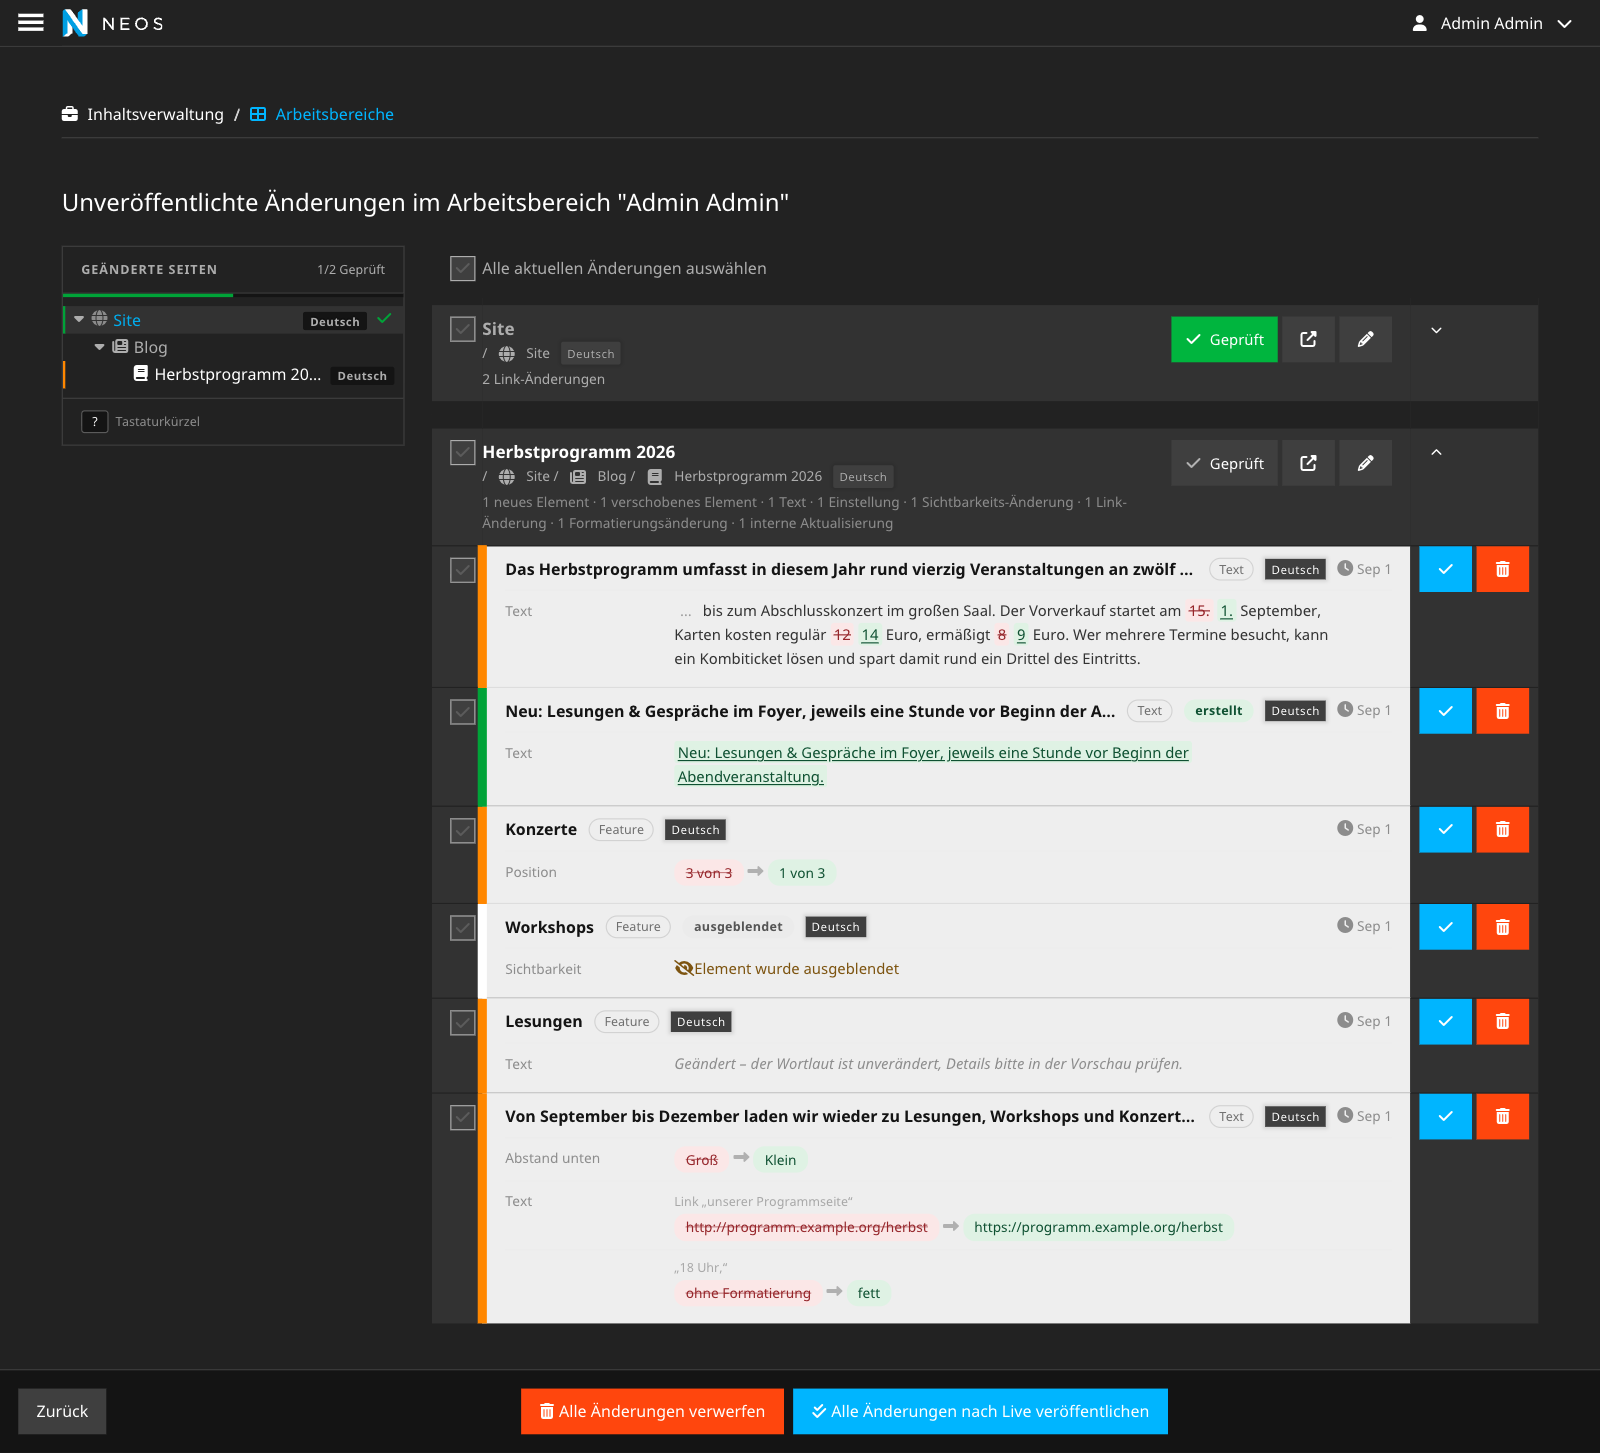
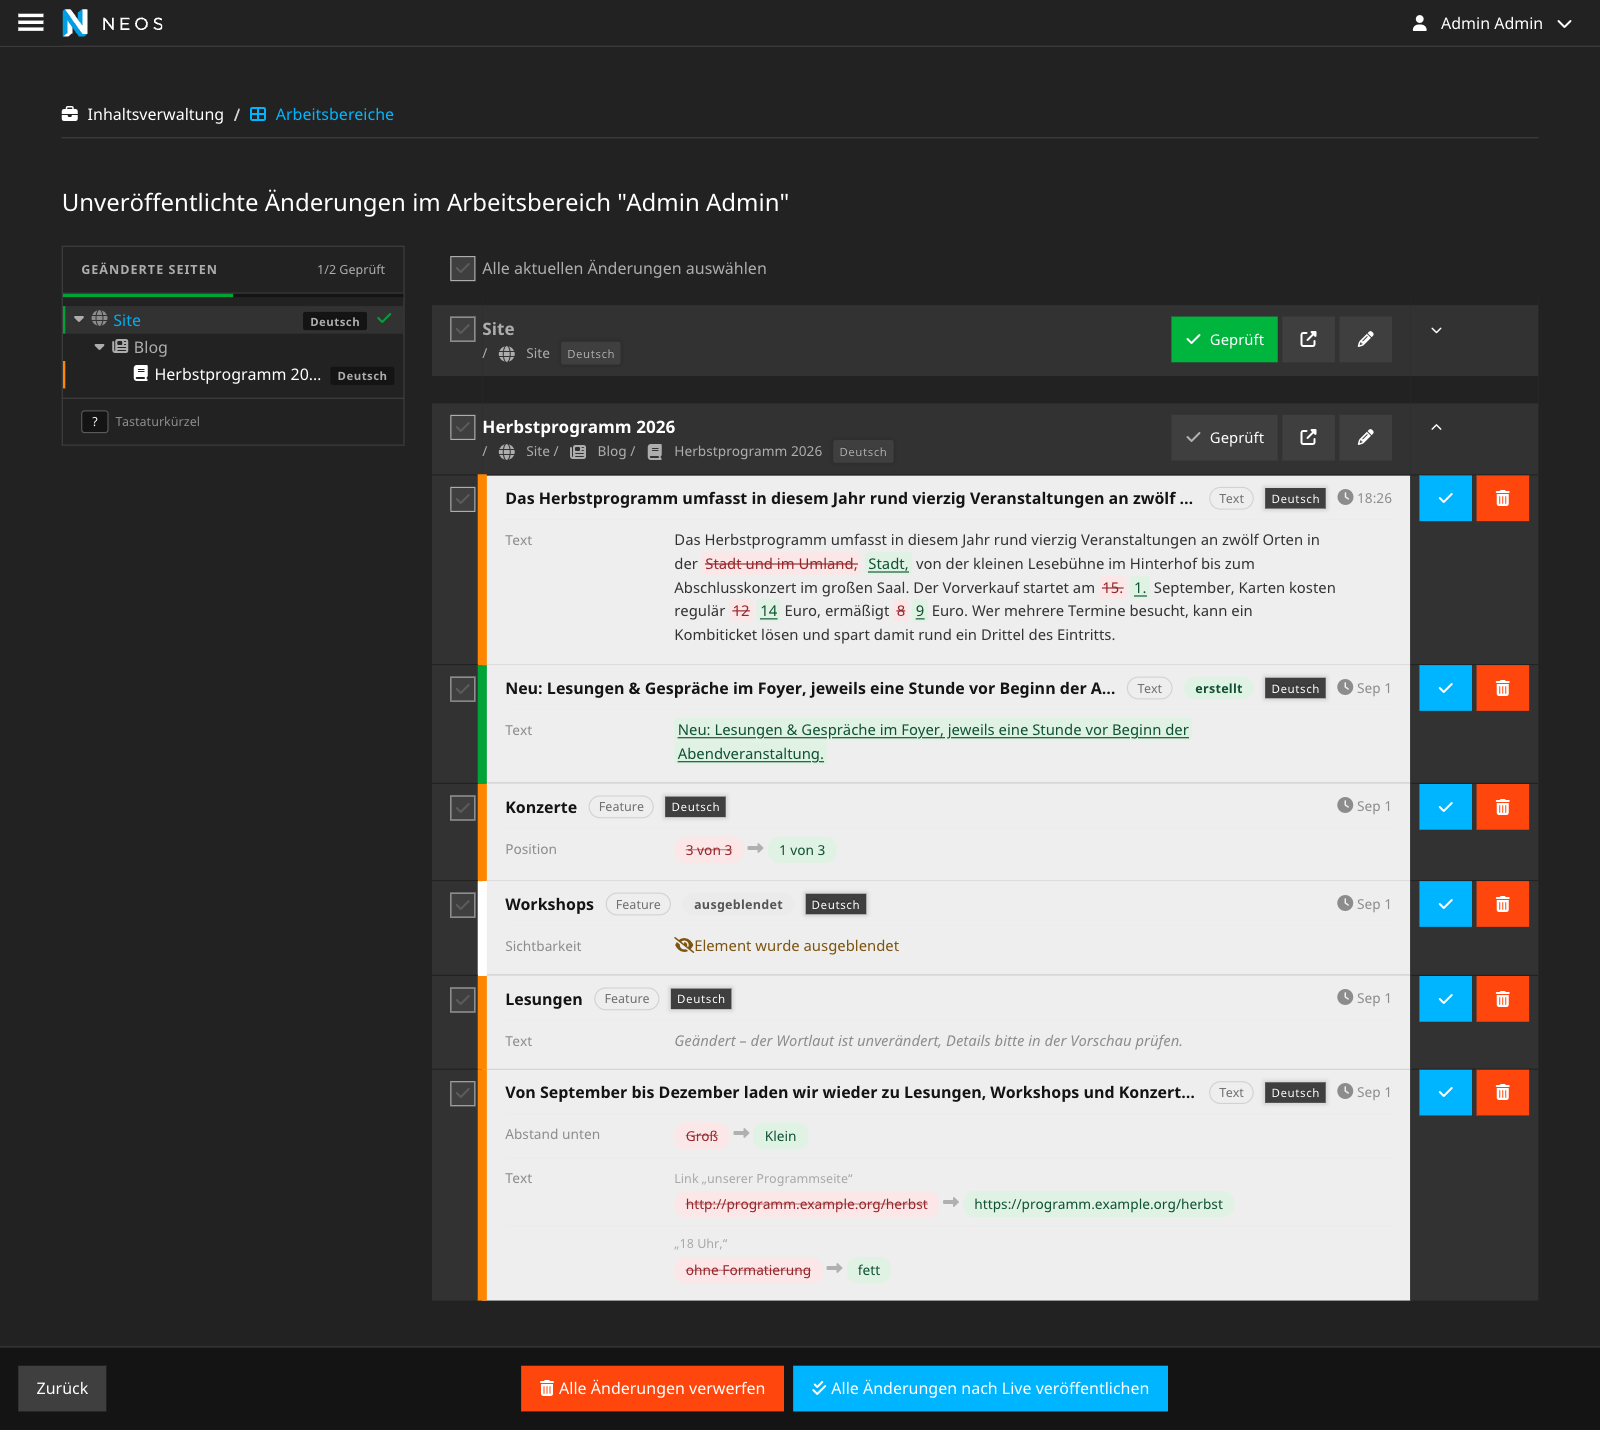
TASK: Remove the per-page change summaries
The counts like "1 new element · 1 moved element · 1 text · 1 setting"
below a page title repeated what the change cards show and did not help
deciding what to look at, so the summary rendering, its translations and
the test are removed.

diff --git a/Resources/Public/Styles/WorkspaceReview.css b/Resources/Public/Styles/WorkspaceReview.css
@@ -678,13 +678,6 @@
     font-size: 11px;
 }
 
-.codeq-review-summary {
-    margin-top: 4px;
-    font-size: 12px;
-    line-height: 18px;
-    color: #8c8c8c;
-}
-
 .codeq-review-page__actions {
     display: flex;
     flex: 0 0 auto;
@@ -718,8 +711,7 @@
     background: #00b53e;
 }
 
-.neos.neos-module .codeq-review-page--reviewed .codeq-review-page__title,
-.neos.neos-module .codeq-review-page--reviewed .codeq-review-summary {
+.neos.neos-module .codeq-review-page--reviewed .codeq-review-page__title {
     color: #adadad;
 }
 

diff --git a/Resources/Private/Templates/Module/Management/Workspaces/Show.html b/Resources/Private/Templates/Module/Management/Workspaces/Show.html
@@ -87,9 +87,6 @@
 														<span class="codeq-review-page__dimensions"><f:render partial="Module/Shared/NodeContentDimensionsInformation" arguments="{contentDimensions: contentDimensions, node: document.documentNode}" /></span>
 													</f:if>
 												</div>
-												<f:if condition="{document.summary}">
-													<div class="codeq-review-summary">{document.summary}</div>
-												</f:if>
 											</div>
 
 											<div class="codeq-review-page__actions">

diff --git a/Classes/Controller/Module/Management/WorkspacesController.php b/Classes/Controller/Module/Management/WorkspacesController.php
@@ -161,9 +161,9 @@ class WorkspacesController extends NeosWorkspacesController
     }
 
     /**
-     * Adds a human-readable per-document change summary on top of the site
-     * changes computed by the core controller, and a "pages" list per
-     * dimension that orders the changed documents like the page tree.
+     * Adds a "pages" list per dimension on top of the site changes computed
+     * by the core controller, ordering the changed documents like the page
+     * tree.
      *
      * @param Workspace $selectedWorkspace
      * @return array
@@ -173,10 +173,6 @@ class WorkspacesController extends NeosWorkspacesController
         $siteChanges = parent::computeSiteChanges($selectedWorkspace);
         foreach ($siteChanges as $siteKey => $site) {
             foreach ($site['documents'] as $dimension => $documents) {
-                foreach ($documents as $documentPath => $document) {
-                    $documents[$documentPath]['summary'] = $this->renderDocumentSummary($document);
-                }
-                $siteChanges[$siteKey]['documents'][$dimension] = $documents;
                 $siteChanges[$siteKey]['pages'][$dimension] = $this->computePageTree($documents);
             }
         }
@@ -222,97 +218,6 @@ class WorkspacesController extends NeosWorkspacesController
             $entries[$index]['hasChildren'] = isset($entries[$index + 1]) && $entries[$index + 1]['depth'] > $entry['depth'];
         }
         return $entries;
-    }
-
-    /**
-     * Builds a summary like "2 texts · 1 setting · 1 new element" for one
-     * changed document, counting change categories across all its nodes.
-     */
-    protected function renderDocumentSummary(array $document): string
-    {
-        $counts = [
-            'created' => 0,
-            'deleted' => 0,
-            'moved' => 0,
-            'texts' => 0,
-            'media' => 0,
-            'settings' => 0,
-            'visibility' => 0,
-            'links' => 0,
-            'formatting' => 0,
-            'internal' => 0,
-        ];
-        foreach ($document['changes'] ?? [] as $change) {
-            /** @var NodeInterface $node */
-            $node = $change['node'];
-            if ($node->isRemoved()) {
-                $counts['deleted']++;
-                continue;
-            }
-            if ($change['isNew'] ?? false) {
-                // A new node's property diff is all insertions; counting each
-                // property would inflate the summary, so count the node once.
-                $counts['created']++;
-                continue;
-            }
-            if ($change['isMoved'] ?? false) {
-                $counts['moved']++;
-            }
-            foreach ($change['contentChanges'] ?? [] as $contentChangeKey => $contentChange) {
-                // A reordering within the same parent keeps the node path, so
-                // the core "isMoved" flag stays false; the position entry is
-                // recognizable by its key and counts as a move, not a setting.
-                if ($contentChangeKey === '_index' && $contentChange['type'] === 'value') {
-                    $counts['moved']++;
-                    continue;
-                }
-                switch ($contentChange['type']) {
-                    case 'text':
-                        $counts['texts']++;
-                        break;
-                    case 'image':
-                    case 'asset':
-                        $counts['media']++;
-                        break;
-                    case 'value':
-                    case 'datetime':
-                        $counts['settings']++;
-                        break;
-                    case 'visibility':
-                        $counts['visibility']++;
-                        break;
-                    case 'link':
-                        $counts['links']++;
-                        break;
-                    case 'formatting':
-                        $counts['formatting']++;
-                        break;
-                    case 'note':
-                        $counts['internal']++;
-                        break;
-                }
-            }
-        }
-
-        $labelIds = [
-            'created' => 'summary.newElements',
-            'deleted' => 'summary.deletedElements',
-            'moved' => 'summary.movedElements',
-            'texts' => 'summary.texts',
-            'media' => 'summary.media',
-            'settings' => 'summary.settings',
-            'visibility' => 'summary.visibility',
-            'links' => 'summary.links',
-            'formatting' => 'summary.formatting',
-            'internal' => 'summary.internal',
-        ];
-        $parts = [];
-        foreach ($labelIds as $countKey => $labelId) {
-            if ($counts[$countKey] > 0) {
-                $parts[] = $this->translateOwn($labelId, [$counts[$countKey]], $counts[$countKey]);
-            }
-        }
-        return implode(' · ', $parts);
     }
 
     /**

diff --git a/Tests/Unit/Controller/Module/Management/WorkspacesControllerTest.php b/Tests/Unit/Controller/Module/Management/WorkspacesControllerTest.php
@@ -638,35 +638,6 @@ class WorkspacesControllerTest extends UnitTestCase
         );
     }
 
-    /** @test */
-    public function renderDocumentSummaryCountsEveryKindOfContentChange(): void
-    {
-        $node = $this->createMock(NodeInterface::class);
-        $node->method('isRemoved')->willReturn(false);
-        $document = [
-            'changes' => [
-                [
-                    'node' => $node,
-                    'contentChanges' => [
-                        ['type' => 'text'],
-                        ['type' => 'value'],
-                        ['type' => 'link'],
-                        ['type' => 'formatting'],
-                        ['type' => 'note'],
-                        '_index' => ['type' => 'value'],
-                    ],
-                ],
-            ],
-        ];
-
-        $summary = $this->createController(null)->renderDocumentSummaryForTest($document);
-
-        self::assertSame(
-            'summary.movedElements(1) · summary.texts(1) · summary.settings(1) · summary.links(1) · summary.formatting(1) · summary.internal(1)',
-            $summary
-        );
-    }
-
     /**
      * The sidebar shows the changed pages as a tree: the unchanged "blog" page
      * between the site and its changed post is listed as an ancestor, and a
@@ -912,11 +883,6 @@ class WorkspacesControllerTest extends UnitTestCase
             public function renderContentChangesForTest(NodeInterface $changedNode): array
             {
                 return $this->renderContentChanges($changedNode);
-            }
-
-            public function renderDocumentSummaryForTest(array $document): string
-            {
-                return $this->renderDocumentSummary($document);
             }
 
             public function computePageTreeForTest(array $documents): array

diff --git a/README.md b/README.md
@@ -4,7 +4,7 @@ Understand exactly what will change before publishing a Neos workspace.
 
 CodeQ.WorkspaceReview replaces ambiguous rows and duplicated text blocks with focused, human-readable change explanations.
 
-![Neos Core workspace review compared with the improved review, with annotations highlighting readable configuration, summaries, word-level diffs, statuses, explanations, links and formatting](Documentation/workspace-review-comparison.png)
+![Neos Core workspace review compared with the improved review, with annotations highlighting readable configuration, word-level diffs, statuses, explanations, links and formatting](Documentation/workspace-review-comparison.png)
 
 > This package is an experiment focused on exploring the workspace review UI.
 > It is not optimized for code quality or production readiness.
@@ -18,7 +18,6 @@ The package changes only the controller and review rendering. Publishing, discar
 - **Jump between changed pages.** A sticky left sidebar lists the changed pages as a tree styled like the backend page tree, with their content dimension. The current page stays highlighted as you scroll, and each page is a separate block in the review.
 
 - **Configurations become visible.** Select boxes, toggles and references use translated editor labels instead of raw stored values.
-- **Page summaries speed up review.** Each document shows a compact summary of its text, media, setting, link, visibility and element changes.
 - **Word-level diffs reduce noise.** Reviewers see the changed words instead of comparing two complete paragraphs. Long unchanged passages collapse to an ellipsis. Deleted words are struck through and added words underlined, so the diff does not rely on colour alone.
 - **Status and position are instantly clear.** Created, deleted, moved and hidden elements receive explicit badges. Positions use readable sibling numbers instead of sorting indexes.
 - **Every change has an explanation.** Visibility changes, reverted edits and internal updates no longer produce unexplained empty rows.
